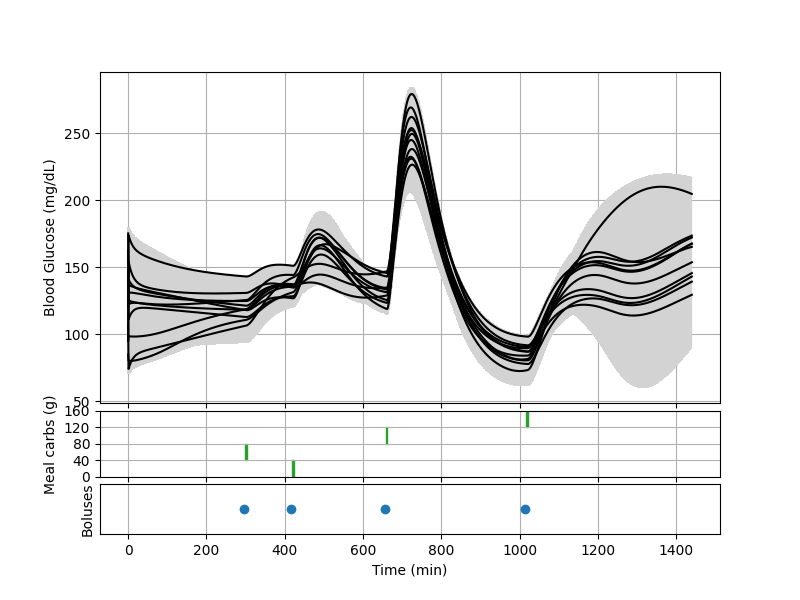
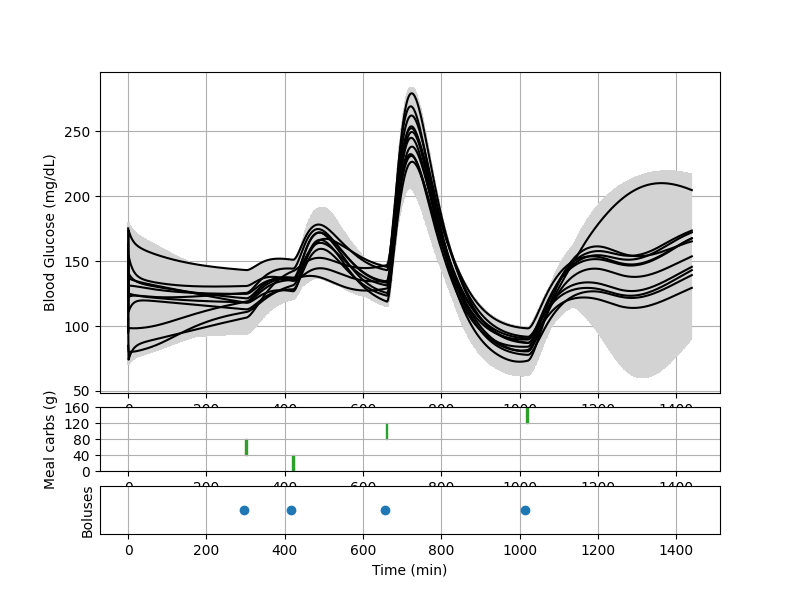
start working on CSV conversion

Changed region(s): [[0.0312, 0.15, 0.9062, 0.9], [0.8438, 0.57, 0.875, 0.6]]

diff --git a/pump/analysis.py b/pump/analysis.py
@@ -313,7 +313,20 @@ def interval_analysis(results):
     print(styler.to_latex(hrules=True))
     breakpoint()
 
-
+def traces_to_csv(result: Tuple[SimulationScenario, AnalysisTree, List[bool]]) -> pd.DataFrame:
+    scenario, traces, safety = result
+    num_simulations = 10
+    state_names = {v: k for (k, v) in state_indices.items() if k != 'agent_mode'}
+    versions = [i for i in range(10)] + ['lowerbound', 'upperbound']
+    columns = []
+    for version in versions:
+        for i  in state_names:
+            columns.append(f'{state_names[i]}@{version}')
+    num_vars = len(state_names)
+    df = pd.DataFrame(columns=columns, index=np.arange(1440))
+    for i, sim in enumerate(traces.root.sims):
+        df.iloc[:, 0:39] = sim[1:, :]
+        breakpoint()
 
 if __name__ == '__main__':
     # debug_sim('results/bad_verif', 'scenario_5', 1)
@@ -359,9 +372,12 @@ if __name__ == '__main__':
     # scenarios = gen_verification_scenarios()
     # print(len(scenarios))
 
+    # results = load_results('results/bad_verif')
+    # for result in results:
+    #     scenario, traces, safety = result
+    #     if hash(scenario) == 2009178107378957702:
+    #         fig, ax = plot_result_paper(result)
+    #         fig.savefig('figures/extended_shutoff_stacked.png')
+
     results = load_results('results/bad_verif')
-    for result in results:
-        scenario, traces, safety = result
-        if hash(scenario) == 2009178107378957702:
-            fig, ax = plot_result_paper(result)
-            fig.savefig('figures/extended_shutoff_stacked.png')
+    traces_to_csv(results[0])

diff --git a/pump/verification.py b/pump/verification.py
@@ -472,7 +472,7 @@ def plot_result_paper(result: Tuple[SimulationScenario, AnalysisTree, List[bool]
 
     # Create stacked plots with shared x-axis
     fig = plt.figure(figsize=(8, 6))
-    gs = gridspec.GridSpec(3, 1, height_ratios=[4, 0.8, 0.6], hspace=0.05)
+    gs = gridspec.GridSpec(3, 1, height_ratios=[4, 0.8, 0.6], hspace=0.1)
     
     ax_main = fig.add_subplot(gs[0])
     ax_meals = fig.add_subplot(gs[1], sharex=ax_main)
